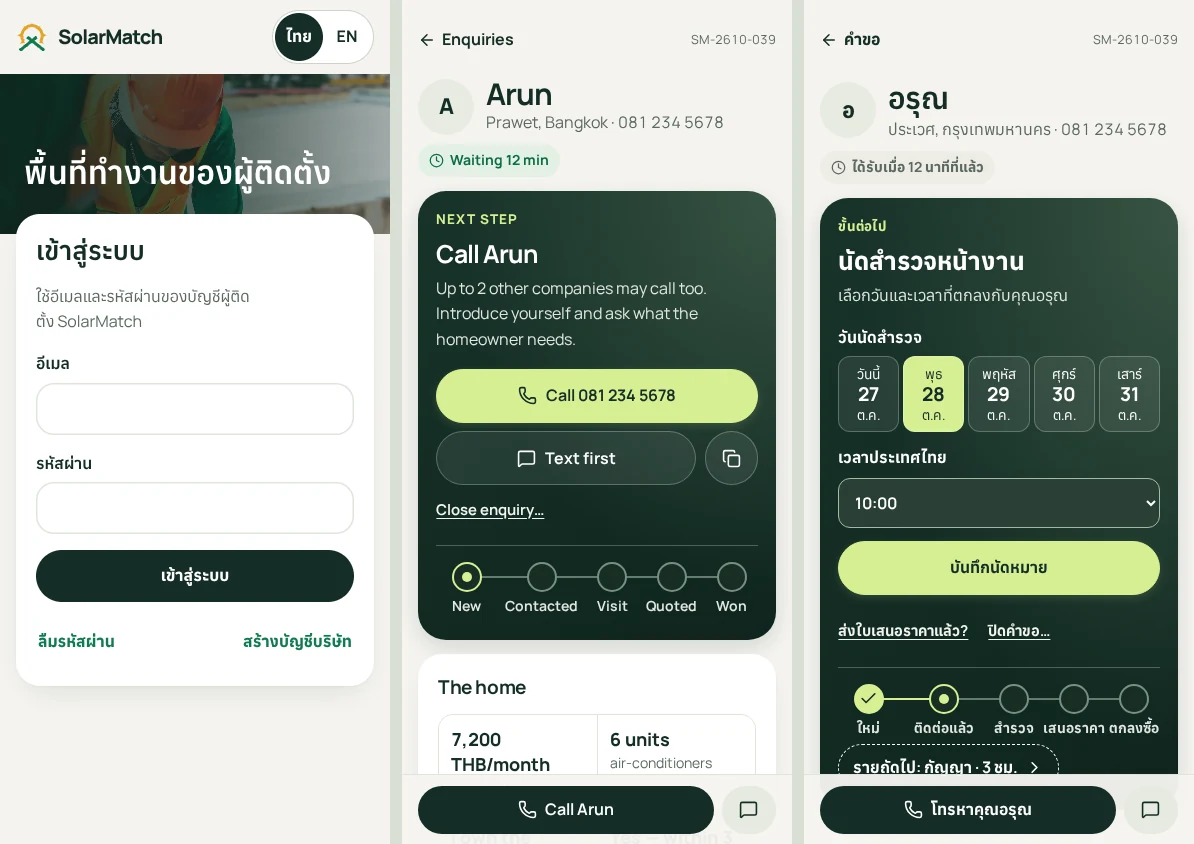
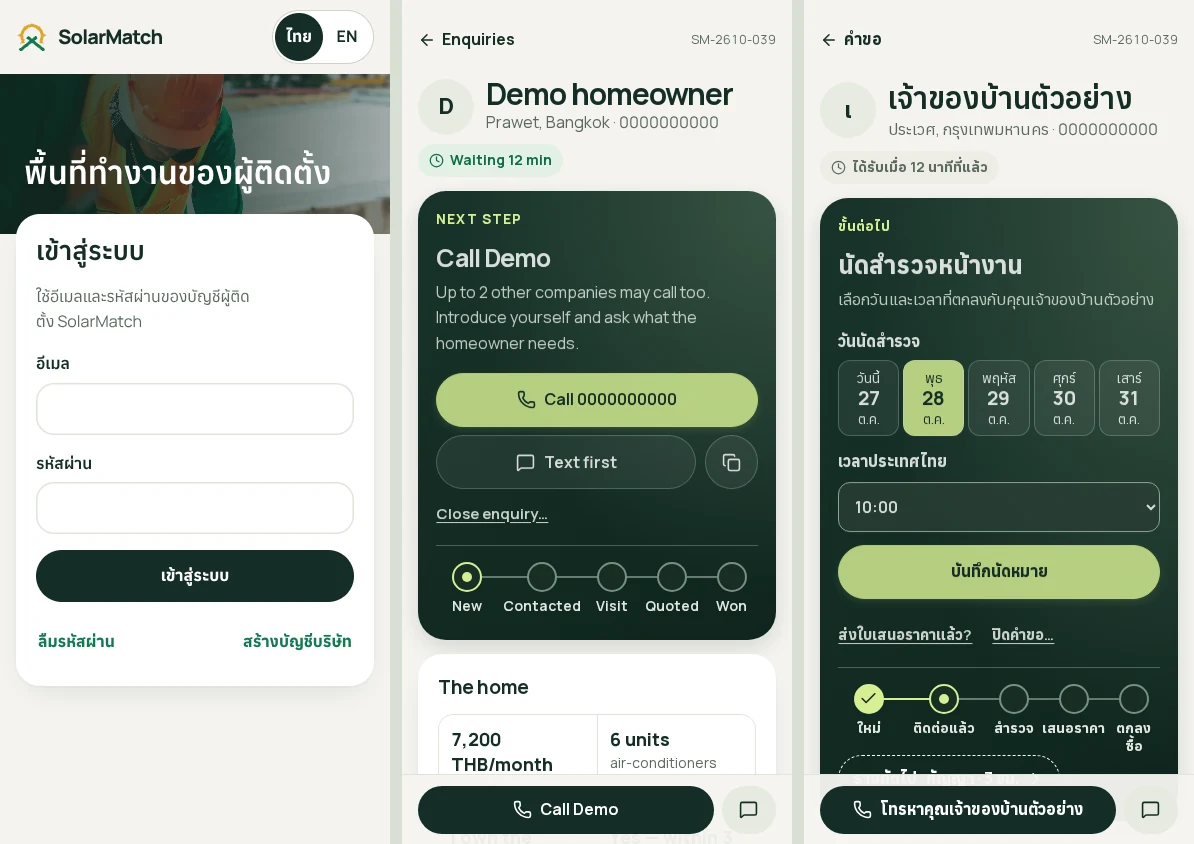
Verify enquiry decisions and navigation and show compiled app previews

diff --git a/tests/e2e/installer-mobile-app.spec.ts b/tests/e2e/installer-mobile-app.spec.ts
@@ -1,7 +1,7 @@
 import { expect, test, type Locator } from '@playwright/test';
 import type { InstallerPortalData } from '../../lib/installer/portal-contract';
 import { signalGroup } from '../../components/installers/signal-state';
-import { mockSignalPortal, signalId } from './signal-fixtures';
+import { mockSignalPortal, signalId, SIGNAL_NOW } from './signal-fixtures';
 
 const app = '/installers/app';
 
@@ -57,6 +57,71 @@ test('an unanswered call opens an editable text and a wrong number prepares a cl
     {action:'log-activity', deliveryId:id, revision:0, kind:'call-no-answer'},
     {action:'log-activity', deliveryId:id, revision:0, kind:'call-wrong'},
   ]);
+});
+
+test('the decision card sends each close reason, reopens the saved stage, and undoes a win', async ({ page }) => {
+  await page.setViewportSize({ width: 390, height: 844 });
+  const id = signalId(28);
+  const { data } = await mockSignalPortal(page, 'approved', 'en');
+  const delivery = data.deliveries.find(item => item.id === id)!;
+  delivery.workflowRevision = 3;
+  delivery.reopenOutcome = 'quoted';
+  const undoId = signalId(700);
+  const requests: unknown[] = [];
+  await page.route('**/api/installer/portal**', async route => {
+    if (route.request().method() !== 'POST') return route.fallback();
+    const body = route.request().postDataJSON();
+    requests.push(body);
+    // Each next GET returns the state the real API projects after this response.
+    delivery.outcome = body.action === 'undo-activity' ? 'quoted' : body.outcome;
+    delivery.closeReason = body.closeReason ?? null;
+    delivery.workflowRevision = (delivery.workflowRevision ?? 0) + 1;
+    return route.fulfill({ json: { ok: true, undoId, undoExpiresAt: new Date(SIGNAL_NOW + 6000).toISOString() } });
+  });
+  await page.goto(`${app}/enquiry/${id}?lang=en&tab=active`);
+  const card = page.getByRole('region', { name: 'Next step' });
+  const reasons = [
+    ['Chose another company', 'other-company', 'lost'], ['Price', 'price', 'lost'],
+    ['Not ready yet', 'not-ready', 'lost'], ['Couldn’t reach them', 'unreachable', 'lost'],
+    ['Not suitable for solar', 'not-suitable', 'not-suitable'],
+  ];
+  let revision = 3;
+  for (const [label, closeReason, outcome] of reasons) {
+    await card.getByRole('button', { name: 'Not this time' }).click();
+    await card.getByRole('radio', { name: label, exact: true }).check();
+    await card.getByRole('button', { name: 'Close enquiry', exact: true }).click();
+    const reopen = card.getByRole('button', { name: 'Reopen' });
+    await expect(reopen).toBeVisible();
+    expect(requests.at(-1)).toEqual({ action: 'report-outcome', outcome, deliveryId: id, closeReason, revision: revision++ });
+    await reopen.click();
+    await expect(card.getByRole('button', { name: 'They agreed' })).toBeVisible();
+    expect(requests.at(-1)).toEqual({ action: 'report-outcome', outcome: 'quoted', deliveryId: id, revision: revision++ });
+  }
+  await card.getByRole('button', { name: 'They agreed' }).click();
+  await expect(card.getByRole('heading', { name: 'Sale agreed' })).toBeVisible();
+  expect(requests.at(-1)).toEqual({ action: 'report-outcome', outcome: 'won', deliveryId: id, revision });
+  await page.getByRole('button', { name: 'Undo', exact: true }).click();
+  await expect(card.getByRole('button', { name: 'They agreed' })).toBeVisible();
+  expect(requests.at(-1)).toEqual({ action: 'undo-activity', deliveryId: id, undoId });
+});
+
+test('desktop previous and next stay in the tab and Next waiting opens the oldest waiting enquiry', async ({ page }) => {
+  await page.setViewportSize({ width: 1440, height: 930 });
+  await mockSignalPortal(page, 'approved', 'en');
+  // The active fixture is ordered Ploy, Somsak, Wichai. The oldest waiting enquiry is Kanya.
+  await page.goto(`${app}/enquiry/${signalId(30)}?tab=active&lang=en`);
+  const pager = page.getByRole('navigation', { name: 'Browse enquiries' });
+  await expect(pager).toContainText('2 of 3');
+  await pager.getByRole('link', { name: 'Previous enquiry' }).click();
+  await expect(page.getByRole('heading', { level: 1, name: 'Ploy' })).toBeVisible();
+  await expect(pager.getByRole('button', { name: 'Previous enquiry' })).toBeDisabled();
+  await pager.getByRole('link', { name: 'Next enquiry' }).click();
+  await expect(page.getByRole('heading', { level: 1, name: 'Somsak' })).toBeVisible();
+  const waiting = page.getByRole('link', { name: /^Next waiting: Kanya/ });
+  await expect(waiting).toHaveAttribute('href', new RegExp(`${app}/enquiry/${signalId(36)}.*tab=waiting`));
+  await waiting.click();
+  await expect(page.getByRole('heading', { level: 1, name: 'Kanya' })).toBeVisible();
+  await expect(pager).toContainText('1 of 3');
 });
 
 test('a denied delivery detail removes contact data from an older list projection', async ({ page }) => {
